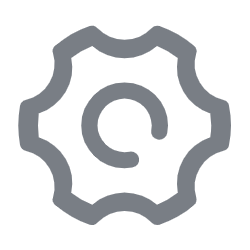
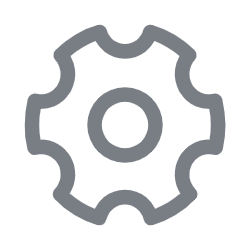
更新了主题更换

diff --git a/src/components/LeftNav.vue b/src/components/LeftNav.vue
@@ -15,9 +15,11 @@
 import { ElMessage } from "element-plus";
 import { useRouter } from "vue-router";
 import { showStore } from "../store/show";
+import { themeStore } from "../store/theme";
 
 // pinia
 const store = showStore();
+const themestore = themeStore();
 
 // 功能未开放提示
 const open = (): void => {
@@ -42,10 +44,19 @@ const toWeather = () => {
 const img1 = "1.png";
 const img2 = "5.png";
 
-function getImageUrl(name: string): string {
-    return new URL(`../assets/images/dark/leftNav/${name}`, import.meta.url).href;
-}
-
+const getImageUrl = (name: string): string => {
+    if (themestore.theme === "dark" || "") {
+        return new URL(
+            `../assets/images/dark/leftNav/${name}`,
+            import.meta.url
+        ).href;
+    } else {
+        return new URL(
+            `../assets/images/light/leftNav/${name}`,
+            import.meta.url
+        ).href;
+    }
+};
 </script>
 
 <style scoped>
@@ -64,7 +75,7 @@ function getImageUrl(name: string): string {
     backdrop-filter: blur(10px);
     box-shadow: 3px 3px 10px rgba(0, 0, 0, 0.3);
     background-color: var(--float-backgroundColor);
-    transition: background-color 0.2s;
+    transition: background-color 0.3s;
 }
 
 .circle:nth-of-type(1) {

diff --git a/src/pages/Search.vue b/src/pages/Search.vue
@@ -73,13 +73,13 @@ watch(
 const EnterSearch = (): void => {
     window.open(target, "_self");
     search_content.value = "";
-}
+};
 
 // 常用标签
 const boxes: {
-        text: string;
-        src: string;
-        img: string;
+    text: string;
+    src: string;
+    img: string;
 }[] = [
     {
         text: "百度",
@@ -125,11 +125,11 @@ const boxes: {
 
 const Open = (target: string): void => {
     window.open(target, "_self");
-}
+};
 
 const getImageUrl = (name: string): string => {
     return new URL(`../assets/images/${name}`, import.meta.url).href;
-}
+};
 
 // 焦点
 const refInput = ref();
@@ -162,7 +162,7 @@ getFocus();
     width: 100%;
     height: 30px;
     border-radius: 15px;
-    transition: all 0.8s;
+    transition: all 0.8s,background-color 0.3s;
 }
 
 .search_top {
@@ -264,5 +264,4 @@ getFocus();
 .menu-leave-active {
     transition: opacity 0.8s ease;
 }
-
 </style>

diff --git a/src/App.vue b/src/App.vue
@@ -42,7 +42,6 @@ export default defineComponent({
             backgroundColor: string;
             floatBackgroundColor: string;
             floatBackgroundColorHover: string;
-            searchColor: string;
         }
 
         // 暗色主题
@@ -52,7 +51,6 @@ export default defineComponent({
             public backgroundColor = "black";
             public floatBackgroundColor = "rgba(0,0,0,0.5)";
             public floatBackgroundColorHover = "rgba(0,0,0,0.7)";
-            public searchColor = "#c4bcba";
         }
 
         // 亮色主题
@@ -62,7 +60,6 @@ export default defineComponent({
             public backgroundColor = "white";
             public floatBackgroundColor = "rgba(255,255,255,0.5)";
             public floatBackgroundColorHover = "rgba(255,255,255,0.7)";
-            public searchColor = "#757271";
         }
 
         // 实例化对象

diff --git a/src/components/RightNav.vue b/src/components/RightNav.vue
@@ -84,7 +84,7 @@ const ChangeTheme = () => {
     backdrop-filter: blur(10px);
     box-shadow: 3px 3px 10px rgba(0, 0, 0, 0.3);
     background-color: var(--float-backgroundColor);
-    transition: background-color 0.2s;
+    transition: background-color 0.3s;
 }
 
 .circle:nth-of-type(1) {
